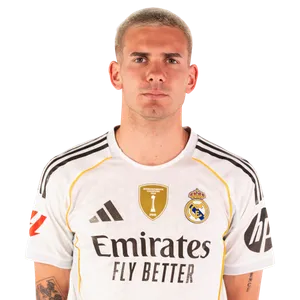
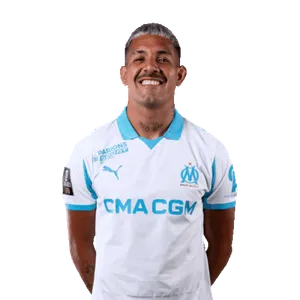
feat: update Thiago Almada's club to Atlético de Madrid in squad details

diff --git a/src/data/squads/arg.ts b/src/data/squads/arg.ts
@@ -19,7 +19,7 @@ export const squad: Player[] = [
   { number: 15, name: 'Exequiel Palacios', position: 'MF', age: 28, club: 'Bayer Leverkusen' },
   { number: 18, name: 'Giovani Lo Celso', position: 'MF', age: 30, club: 'Real Betis' },
   { number: 27, name: 'Nico González', position: 'MF', age: 28, club: 'Atlético de Madrid' },
-  { number: 28, name: 'Thiago Almada', position: 'MF', age: 25, club: 'Botafogo' },
+  { number: 28, name: 'Thiago Almada', position: 'MF', age: 25, club: 'Atlético de Madrid' },
   { number: 29, name: 'Nico Paz', position: 'MF', age: 22, club: 'Como 1907' },
   { number: 10, name: 'Lionel Messi', position: 'FW', age: 39, club: 'Inter Miami', captain: true },
   { number: 9, name: 'Julián Álvarez', position: 'FW', age: 26, club: 'Atlético de Madrid' },

diff --git a/public/en/team/argentina/index.html b/public/en/team/argentina/index.html
@@ -117,7 +117,7 @@
 <li>#15 Exequiel Palacios — MF (Bayer Leverkusen)</li>
 <li>#18 Giovani Lo Celso — MF (Real Betis)</li>
 <li>#27 Nico González — MF (Atlético de Madrid)</li>
-<li>#28 Thiago Almada — MF (Botafogo)</li>
+<li>#28 Thiago Almada — MF (Atlético de Madrid)</li>
 <li>#29 Nico Paz — MF (Como 1907)</li>
 <li>#10 Lionel Messi — FW (Inter Miami)</li>
 <li>#9 Julián Álvarez — FW (Atlético de Madrid)</li>

diff --git a/public/seleccion/argentina/index.html b/public/seleccion/argentina/index.html
@@ -117,7 +117,7 @@
 <li>#15 Exequiel Palacios — MF (Bayer Leverkusen)</li>
 <li>#18 Giovani Lo Celso — MF (Real Betis)</li>
 <li>#27 Nico González — MF (Atlético de Madrid)</li>
-<li>#28 Thiago Almada — MF (Botafogo)</li>
+<li>#28 Thiago Almada — MF (Atlético de Madrid)</li>
 <li>#29 Nico Paz — MF (Como 1907)</li>
 <li>#10 Lionel Messi — FW (Inter Miami)</li>
 <li>#9 Julián Álvarez — FW (Atlético de Madrid)</li>
